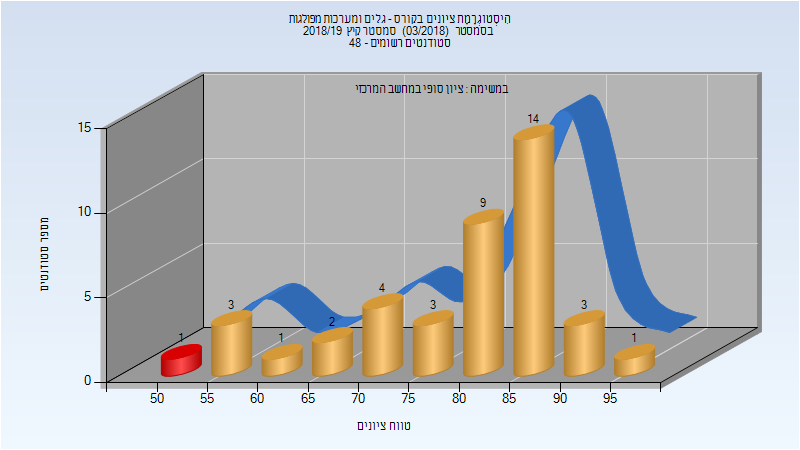
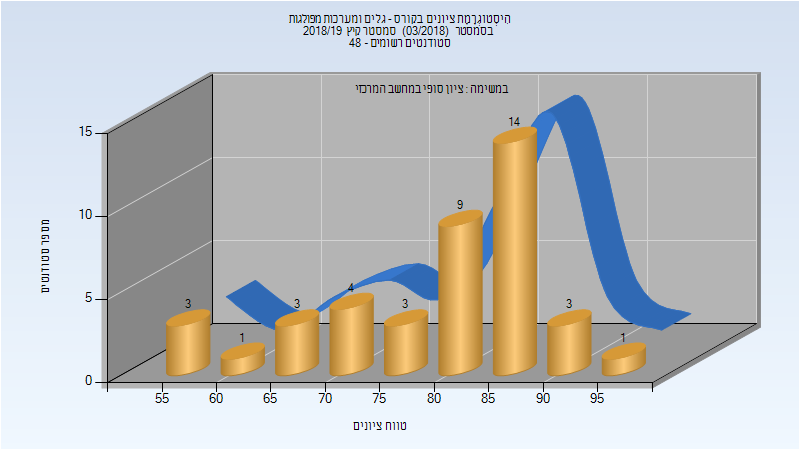
Deploy michael-maltsev/technion-histograms to github.com/michael-maltsev/technion-histograms.git:gh-pages

diff --git a/044148/index.html b/044148/index.html
@@ -1461,11 +1461,11 @@
 <tbody>
 <tr>
 <td>41</td>
-<td>40/1</td>
-<td>98</td>
-<td>50</td>
+<td>41/0</td>
+<td>100</td>
+<td>55</td>
 <td>95</td>
-<td>79.537</td>
+<td>79.927</td>
 <td>83</td>
 </tr>
 </tbody>

diff --git a/044148/README.md b/044148/README.md
@@ -454,7 +454,7 @@
 
 | סטודנטים | עברו/נכשלו | אחוז עוברים | ציון מינימלי | ציון מקסימלי | ממוצע | חציון |
 | ---- | ---- | ---- | ---- | ---- | ---- | ---- |
-| 41 | 40/1 | 98 | 50 | 95 | 79.537 | 83 |
+| 41 | 41/0 | 100 | 55 | 95 | 79.927 | 83 |
 
 ## חורף 2019-2020
 
